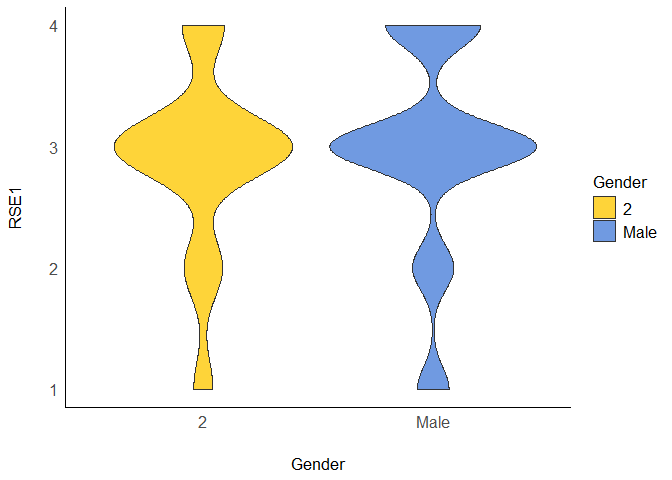
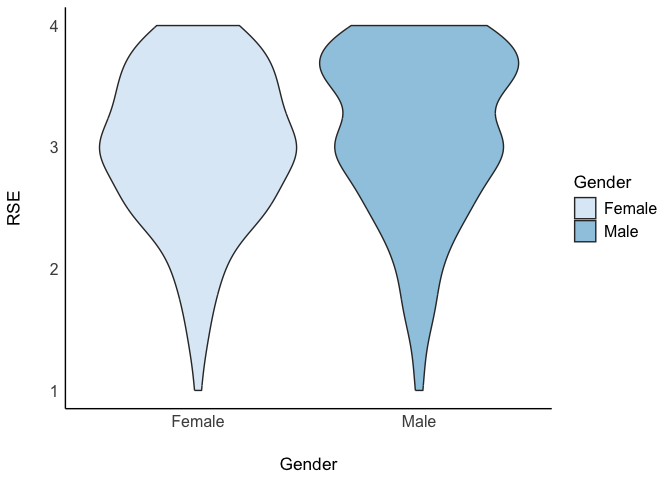
Main take away
As long as you can declare and justify, you can do whatever you want with your data

diff --git a/Lab3.md b/Lab3.md
@@ -27,8 +27,6 @@ library(ggplot2)
 library(psych)
 ```
 
-    ## Warning: package 'psych' was built under R version 4.3.3
-
     ## 
     ## Attaching package: 'psych'
 
@@ -41,7 +39,7 @@ library(bruceR)
 ```
 
     ## 
-    ## bruceR (v2023.9)
+    ## bruceR (v2024.6)
     ## Broadly Useful Convenient and Efficient R functions
     ## 
     ## Packages also loaded:
@@ -66,32 +64,19 @@ library(bruceR)
     ## https://psychbruce.github.io/bruceR
     ## 
     ## To use this package in publications, please cite:
-    ## Bao, H.-W.-S. (2023). bruceR: Broadly useful convenient and efficient R functions (Version 2023.9) [Computer software]. https://CRAN.R-project.org/package=bruceR
-
-    ## 
-    ## NEWS: A new version of bruceR (2024.6) is available (2024-06-13)!
-    ## 
-    ## ***** Please update *****
-    ## install.packages("bruceR", dep=TRUE)
+    ## Bao, H.-W.-S. (2024). bruceR: Broadly useful convenient and efficient R functions (Version 2024.6) [Computer software]. https://CRAN.R-project.org/package=bruceR
 
     ## 
     ## These packages are dependencies of `bruceR` but not installed:
-    ## - pacman, lmtest, vars, phia, GPArotation
+    ## - pacman, openxlsx, ggtext, lmtest, vars, phia, MuMIn, GGally
     ## 
     ## ***** Install all dependencies *****
     ## install.packages("bruceR", dep=TRUE)
 
 ``` r
 library(ggsci)
-```
-
-    ## Warning: package 'ggsci' was built under R version 4.3.3
-
-``` r
 library(see)
 ```
-
-    ## Warning: package 'see' was built under R version 4.3.3
 
     ## 
     ## Attaching package: 'see'
@@ -103,7 +88,7 @@ library(see)
 # Load Datasets
 
 ``` r
-lab3data <- read.csv("C:/Users/Colin/Documents/Github/Website/Lab3/lab3data.csv")
+lab3data <- read.csv("/Users/toko/Documents/GitHub/Lab3/lab3data.csv")
 ```
 
 # Missing Data
@@ -144,7 +129,24 @@ lab3data<- lab3data%>%
     ## generated.
 
 ``` r
+lab3data<- lab3data%>%
+  mutate_at(c('Gender'),funs(str_replace(., "2", "Female")))
+```
+
+    ## Warning: `funs()` was deprecated in dplyr 0.8.0.
+    ## ℹ Please use a list of either functions or lambdas:
+    ## 
+    ## # Simple named list: list(mean = mean, median = median)
+    ## 
+    ## # Auto named with `tibble::lst()`: tibble::lst(mean, median)
+    ## 
+    ## # Using lambdas list(~ mean(., trim = .2), ~ median(., na.rm = TRUE))
+    ## Call `lifecycle::last_lifecycle_warnings()` to see where this warning was
+    ## generated.
+
+``` r
 #Solution 2
+
 
 #lab3data$Gender<-recode(lab3data$Gender, '1' = 'X', '2' = 'Y')
 
@@ -179,6 +181,54 @@ lab3data %>% count(RSE2_R)
 
 ``` r
 #Now do the same for the other items (5,6,8,9)
+
+lab3data %>% count(RSE5)
+```
+
+    ##   RSE5   n
+    ## 1    1 117
+    ## 2    2 108
+    ## 3    3  49
+    ## 4    4  26
+
+``` r
+lab3data$RSE5_R <- 5 - lab3data$RSE5
+
+lab3data %>% count(RSE6)
+```
+
+    ##   RSE6   n
+    ## 1    1 112
+    ## 2    2  86
+    ## 3    3  66
+    ## 4    4  36
+
+``` r
+lab3data$RSE6_R <- 5 - lab3data$RSE6
+
+lab3data %>% count(RSE8)
+```
+
+    ##   RSE8  n
+    ## 1    1 76
+    ## 2    2 94
+    ## 3    3 82
+    ## 4    4 48
+
+``` r
+lab3data$RSE8_R <- 5 - lab3data$RSE8
+
+lab3data %>% count(RSE9)
+```
+
+    ##   RSE9   n
+    ## 1    1 143
+    ## 2    2  90
+    ## 3    3  38
+    ## 4    4  29
+
+``` r
+lab3data$RSE9_R <- 5 - lab3data$RSE9
 ```
 
 # Create Composites
@@ -188,15 +238,39 @@ lab3data %>% count(RSE2_R)
 
 
 #Fill in the items
-#lab3data <- lab3data %>%
-  #mutate(RSE = rowMeans(cbind(RSE1, ..., RSE10)))
+lab3data <- lab3data %>%
+  mutate(RSE = rowMeans(cbind(RSE1, RSE2_R, RSE3, RSE4, RSE5_R, RSE6_R, RSE7, RSE8_R, RSE9_R, RSE10)))
 
 #Create another composite for SWL, but this time use rowSums
+lab3data <- lab3data %>%
+  mutate(SWL = rowSums (cbind(SWL1, SWL2, SWL3, SWL4, SWL5)))
 ```
 
 # Get Summary Descriptive Statistics
 
+``` r
+lab3data %>% 
+  group_by(Gender) %>%
+  dplyr::summarize(mean_RSE    = mean(RSE),
+      mean_SWL    = mean(SWL),
+      std_dev_RSE = sd(RSE),
+      std_dev_SWL = sd(SWL),
+      corr_RSE_SWL  = cor(RSE,SWL)
+    )
+```
+
+    ## # A tibble: 3 × 6
+    ##   Gender mean_RSE mean_SWL std_dev_RSE std_dev_SWL corr_RSE_SWL
+    ##   <chr>     <dbl>    <dbl>       <dbl>       <dbl>        <dbl>
+    ## 1 Female     2.98     16.3       0.641        4.97        0.356
+    ## 2 Male       3.12     16.2       0.683        5.48        0.496
+    ## 3 <NA>       2.6      16        NA           NA          NA
+
 # Q1: Descrptively, which group has a higher self-esteem? What about life satisfaction? Is the relationship between self-esteem and life satisfaction stronger for males or for females?
+
+Male has a higher self-esteem. Female has a higher life satisfaction.
+The relationship between self-esteem and life satisfaction stronger for
+males.
 
 # Visualization of Data Distribution
 
@@ -205,13 +279,23 @@ lab3data<- lab3data %>%
   drop_na(Gender)
 
 
-ggplot(lab3data, aes(x = Gender, y = RSE1)) + geom_violin(aes(fill=Gender)) + scale_fill_simpsons() + theme_modern()
+ggplot(lab3data, aes(x = Gender, y = RSE)) + geom_violin(aes(fill=Gender)) + scale_fill_brewer() + theme_modern()
 ```
 
 ![](Lab3_files/figure-gfm/unnamed-chunk-8-1.png)<!-- -->
 
 ``` r
 #Create a plot for SWL by Gender with a different color palette
+
+lab3data<- lab3data %>%
+  drop_na(Gender)
+
+ggplot(lab3data, aes(x = Gender, y = SWL)) + geom_violin(aes(fill=Gender)) + scale_fill_cosmic () + theme_modern()
 ```
 
+![](Lab3_files/figure-gfm/unnamed-chunk-8-2.png)<!-- -->
+
 # Q2: What you can tell from looking at a violin plot? What you cannot tell? What inferences you can make based on the two violin plots?
+
+A violin plot shows us distribution of scores. A violin plot does not
+tell mean score, standard deviation and standard error.
